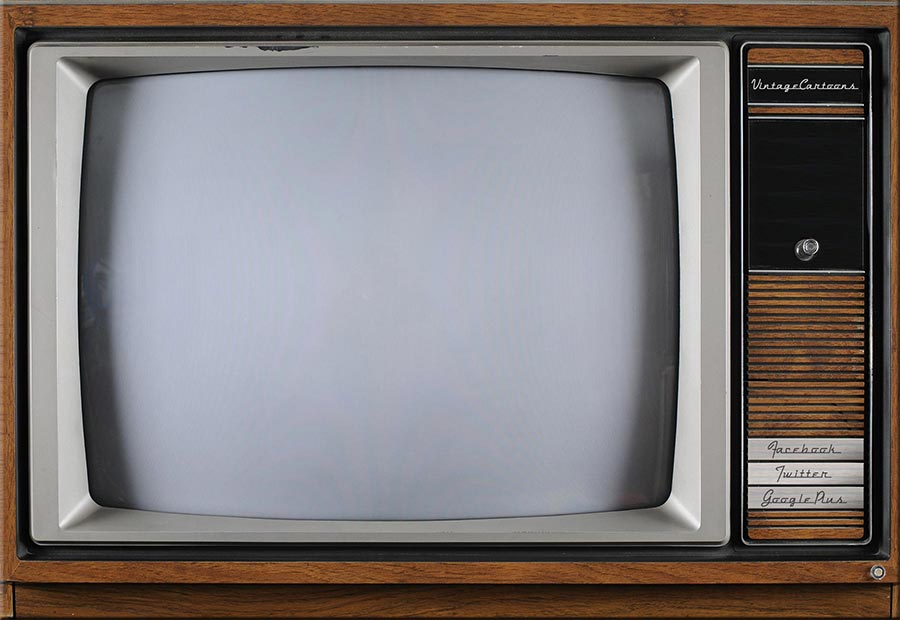
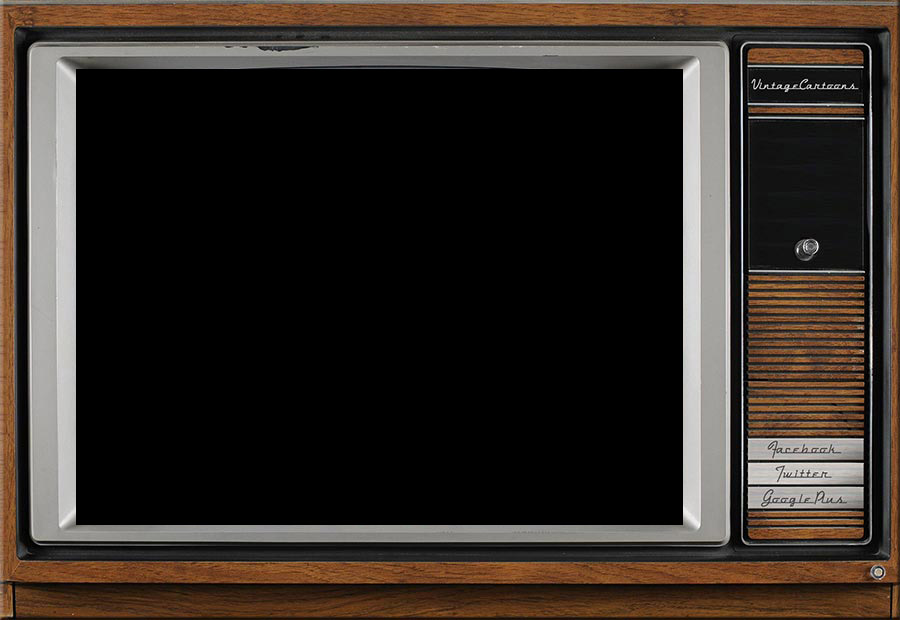
some resolution independence

diff --git a/index.html b/index.html
@@ -8,7 +8,6 @@
         <meta http-equiv="X-UA-Compatible" content="IE=edge,chrome=1">
         <title>Vintage Cartoons</title>
         <meta name="description" content="">
-        <!-- <meta name="viewport" content="width=1024,  initial-scale=1.0; maximum-scale=1.0;"> -->
 
         <link href="favicon.ico?v=1" rel="icon" type="image/x-icon" />
         <link href="favicon.ico?v=1" rel="shortcut icon" type="image/x-icon" />
@@ -23,7 +22,6 @@
 
         <link rel="stylesheet" href="css/normalize.css">
         <link rel="stylesheet" href="css/main.css">
-        <!-- <link rel="stylesheet" href="css/retina.css"> -->
         <script src="js/vendor/modernizr-2.6.2.min.js"></script>
 	</head>
 	<body>
@@ -31,27 +29,29 @@
             <p class="chromeframe">You are using an <strong>outdated</strong> browser. Please <a href="http://browsehappy.com/">upgrade your browser</a> or <a href="http://www.google.com/chromeframe/?redirect=true">activate Google Chrome Frame</a> to improve your experience.</p>
         <![endif]-->
 
-		<div id="buttoncontainer">
-			<div id="content">
-				<div id="iframecontainer">
-					<video class="videoframe" style="width:100%;height:100%;">
-						Vintage Cartoon's<!--'--> player requires either JavaScript to be enabled or a modern
-						browser that understands the HTML5 &lt;video&gt; tag.
-					</video>
+        <div id="content">
 
-					<div id="noisecontainer">&nbsp;</div>
-				</div>
+	        <img id="backgroundImage" class="layer" src="img/tv_back.jpg" alt="background"/>
+			<div id="iframecontainer" class="layer">
+				<video class="videoframe">
+					Vintage Cartoon's<!--'--> player requires either JavaScript to be enabled or a modern
+					browser that understands the HTML5 &lt;video&gt; tag.
+				</video>
+        		
+        		<img id="noisecontainer" src="img/noise.jpg" alt="background"/>
 			</div>
+	        <img id="frameoverlay" class="layer" src="img/tv_layer.png" alt="background"/>
 
-			<div id="frameoverlay">&nbsp;</div>
-			
-			<a id="tv_button_facebook" class="tv-button" href="http://www.facebook.com/share.php?u=http://vintagecartoons.tv/" target="_blank" title="Share This on Facebook"></a>
+			<div id="buttoncontainer" class="layer">
+				
+				<a id="tv_button_facebook" class="tv-button" href="http://www.facebook.com/share.php?u=http://vintagecartoons.tv/" target="_blank" title="Share This on Facebook"></a>
 
-			<a id="tv_button_twitter" class="tv-button" href="http://twitter.com/home?status=Amazing vintage cartoons: http://vintagecartoons.tv/" target="_blank" title="Share This on Twitter"></a>
+				<a id="tv_button_twitter" class="tv-button" href="http://twitter.com/home?status=Amazing vintage cartoons: http://vintagecartoons.tv/" target="_blank" title="Share This on Twitter"></a>
 
-			<a id="tv_button_plus" class="tv-button" href="https://plus.google.com/share?url=http://vintagecartoons.tv/" target="_blank" title="Share This on G+"></a>
-			
-			<a id="tv_button_next" class="tv-button" href="#" title="?"></a>
+				<a id="tv_button_plus" class="tv-button" href="https://plus.google.com/share?url=http://vintagecartoons.tv/" target="_blank" title="Share This on G+"></a>
+				
+				<a id="tv_button_next" class="tv-button" href="#" title="?"></a>
+			</div>
 		</div>
 
 		<footer class="footer">
@@ -61,7 +61,7 @@
         <script src="//ajax.googleapis.com/ajax/libs/jquery/1.9.1/jquery.min.js"></script>
         <script>window.jQuery || document.write('<script src="js/vendor/jquery-1.9.1.min.js"><\/script>')</script>
         <script src="js/plugins.js"></script>
-        <script src="js/main.js?v=17"></script>
+        <script src="js/main.js?v=19"></script>
 
         <script>
 			(function(i,s,o,g,r,a,m){i['GoogleAnalyticsObject']=r;i[r]=i[r]||function(){

diff --git a/css/main.css b/css/main.css
@@ -100,7 +100,7 @@ html {
 
 body {
 	height: 100%;
-	background-image: url(../img/tv_back.jpg);
+	/*background-image: url(../img/tv_back.jpg);*/
 	background-repeat: no-repeat;
 	background-position: center 50px;
 }
@@ -113,34 +113,35 @@ body {
 	position: relative;
 }
 
+#content .layer {
+    display: inline;
+    position: absolute;
+    top: 0;
+    left: 0;
+    width: 100%;
+}
 
 #iframecontainer {
-	width: 609px;
-	height: 463px;
-	background-color: black;
-	margin-left: -70px;
 }
 	
 #iframecontainer .videoframe {
-	width: 609px;
-	height: 463px;
+	width: 70%;
+    min-height: 55%;
+    margin-left: 7%;
+    margin-top: 5%;
 }
 
 #noisecontainer {
-	width: 609px;
-	height: 463px;
-	background-image: url(../img/noise.jpg);
 	position: absolute;
-	left: -70px;
-	top: 112px;
 	opacity: 0;
+    width: 70%;
+    left: 7%;
+    top: 10.5%;
 }
 
 #frameoverlay {
-	background-image: url(../img/tv_layer.png);
 	background-repeat: no-repeat;
 	background-position: center 50px;
-	height: 100%;
 	width: 100%;
 	position: absolute;
 	left: 0;
@@ -166,8 +167,6 @@ body {
 }
 
 #buttoncontainer {
-	width: 900px;
-	height: 620px;
 	margin-left: auto;
 	margin-right: auto;
 	position: relative;
@@ -209,26 +208,52 @@ body {
 	color: #222;
 }
 
+#backgroundImage {
+    display: none;
+    position: absolute;
+    top: 0;
+    left: 0;
+    width: 100%;
+
+}
 
 
-@media screen and (max-width: 600px) {
-    
+@media screen and (max-width: 900px) {
     #content {
         width: 100%;
+    }
+    /*html, body, #buttoncontainer {
+        width: 100%;
         height: 100%;
+    }
+    #content,  #iframecontainer, #noisecontainer, #frameoverlay {
+        width: 75%;
+        height: 56.25%;
+        background-image: none;
+    }
+    #backgroundImage {
+        display: inline;
+    }
+    body {
+        background-image: none;
+    }
+    #content {
+        padding-top: 5%;
     }
     #iframecontainer {
-        width: 100%;
-        height: 100%;
+        margin-left: -10%;
     }
-    #iframecontainer .videoframe {
-        width: 100%;
-        height: 100%;
-    }
+
     #noisecontainer {
-        width: 100%;
-        height: 100%;
+        left: -10%;
+        top: 5%;
     }
+
+    #frameoverlay {
+        background-position: center 50px;
+        height: 100%;
+        width: 100%;
+    }*/
 }
 
 

diff --git a/js/main.js b/js/main.js
@@ -74,7 +74,7 @@ function playVideo(index) {
 	var currentVideo = playlist[index];
 
 	$('.videoframe').remove();
-	$('#iframecontainer').prepend($('<video class="videoframe" style="width:100%;height:100%;">'));
+	$('#iframecontainer').prepend($('<video class="videoframe">'));
 
 	for (var i in currentVideo.formats) {
 		$('.videoframe').append($('<source src="http://archive.org/download/'+currentVideo.urlpart+'.'+currentVideo.formats[i]+'"\/>'));
@@ -183,7 +183,7 @@ $(function() {
 $(document).ready(function () {
   function reorient(e) {
     var portrait = (window.orientation % 180 == 0);
-    $("body > div").css("-webkit-transform", !portrait ? "rotate(-90deg)" : "");
+    $("body > div").css("-webkit-transform", portrait ? "rotate(-90deg)" : "");
   }
   window.onorientationchange = reorient;
   window.setTimeout(reorient, 0);
